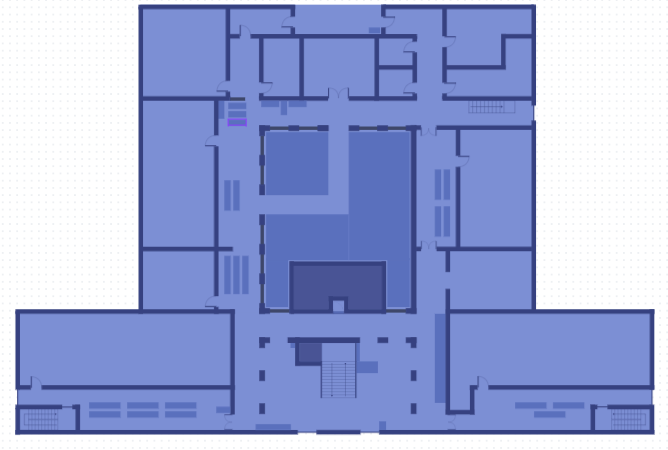
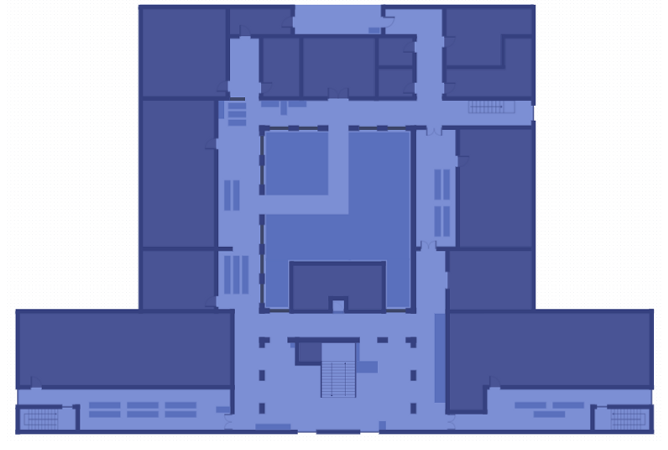
changed_new floor plan image

diff --git a/public/js/components/floor-plan.js b/public/js/components/floor-plan.js
@@ -26,7 +26,7 @@ export const SLOTS = [
   { id: 's12', d: 'M505.5 38.5 L531.5 38.5 L531.5 96.5 L447.5 96.5 L447.5 69.5 L505.5 69.5 Z', lx: 490, ly: 78, tiny: true },
   { id: 's13', d: R(460.5, 130.5, 71, 116) },
   { id: 's14', d: R(450.5, 251.5, 81, 57) },
-  { id: 's15', d: 'M450.5 313.5 L649.5 313.5 L649.5 384.5 L469.5 384.5 L469.5 409.5 L450.5 409.5 Z', lx: 548, ly: 349 }
+  { id: 's15', d: 'M450 313 L650 313 L650 385 L482 385 L482 410 L450 410 Z', lx: 550, ly: 349 }
 ];
 export const SLOT_IDS = new Set(SLOTS.map((s) => s.id));
 
